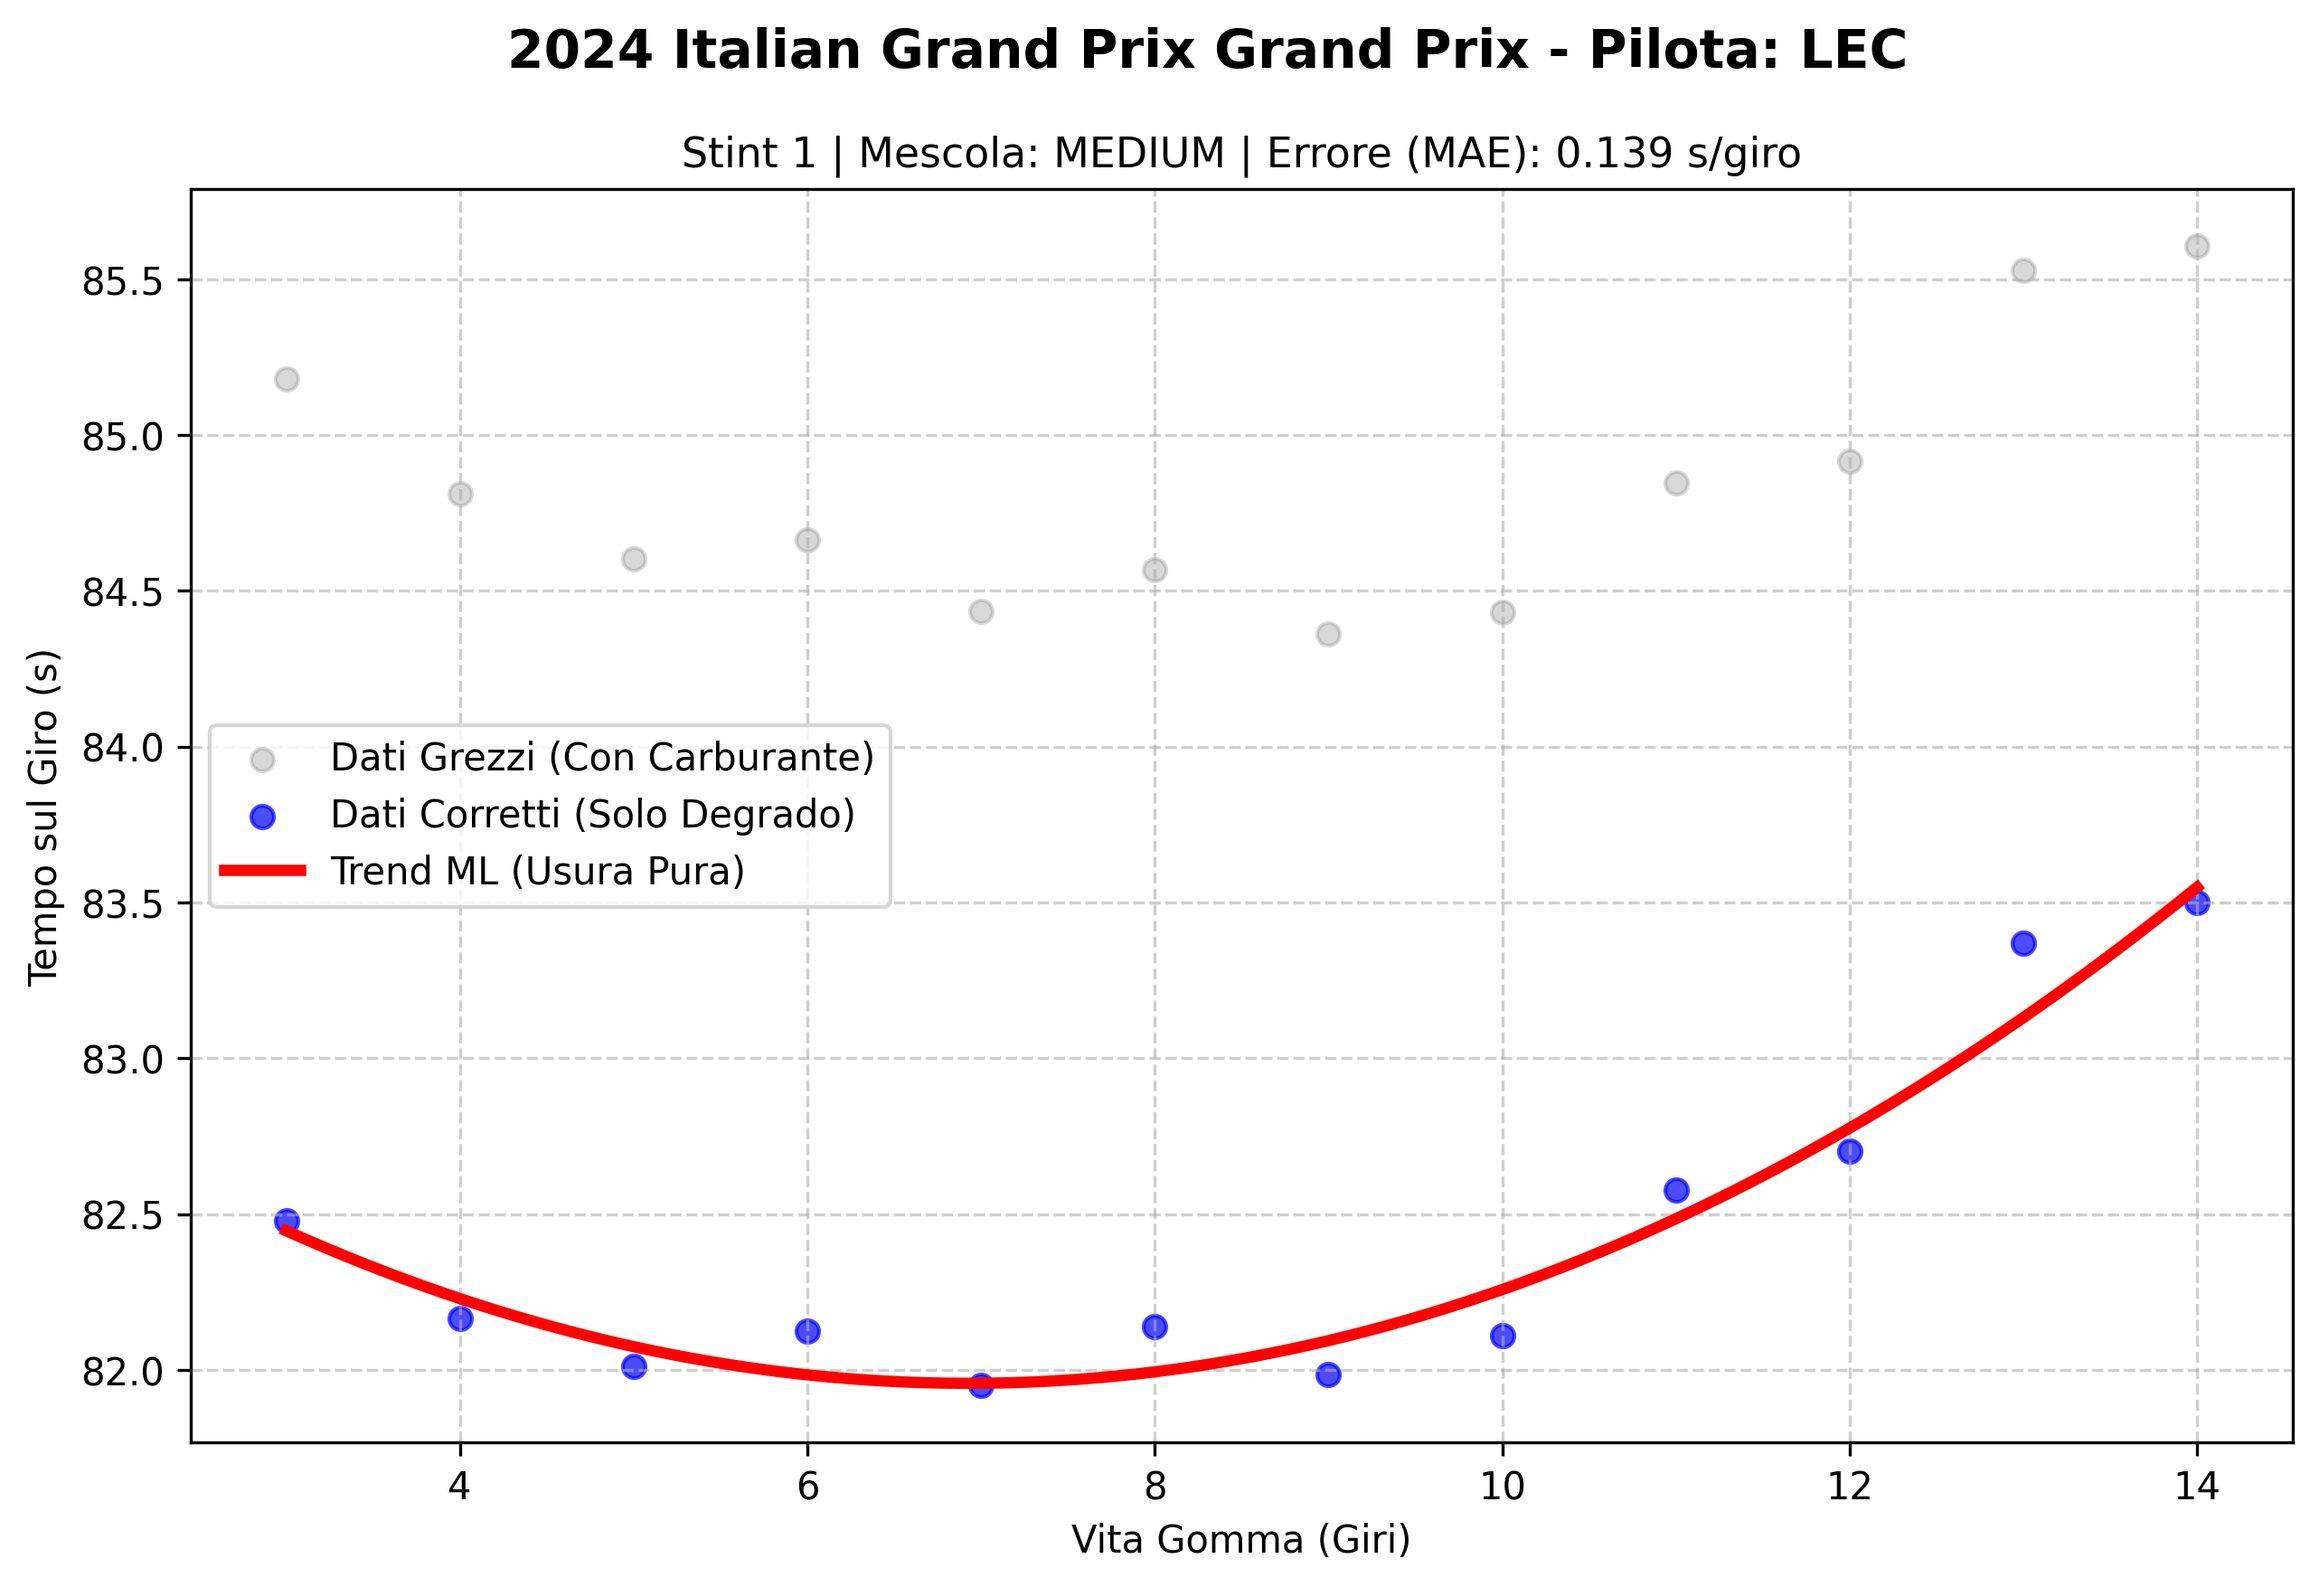
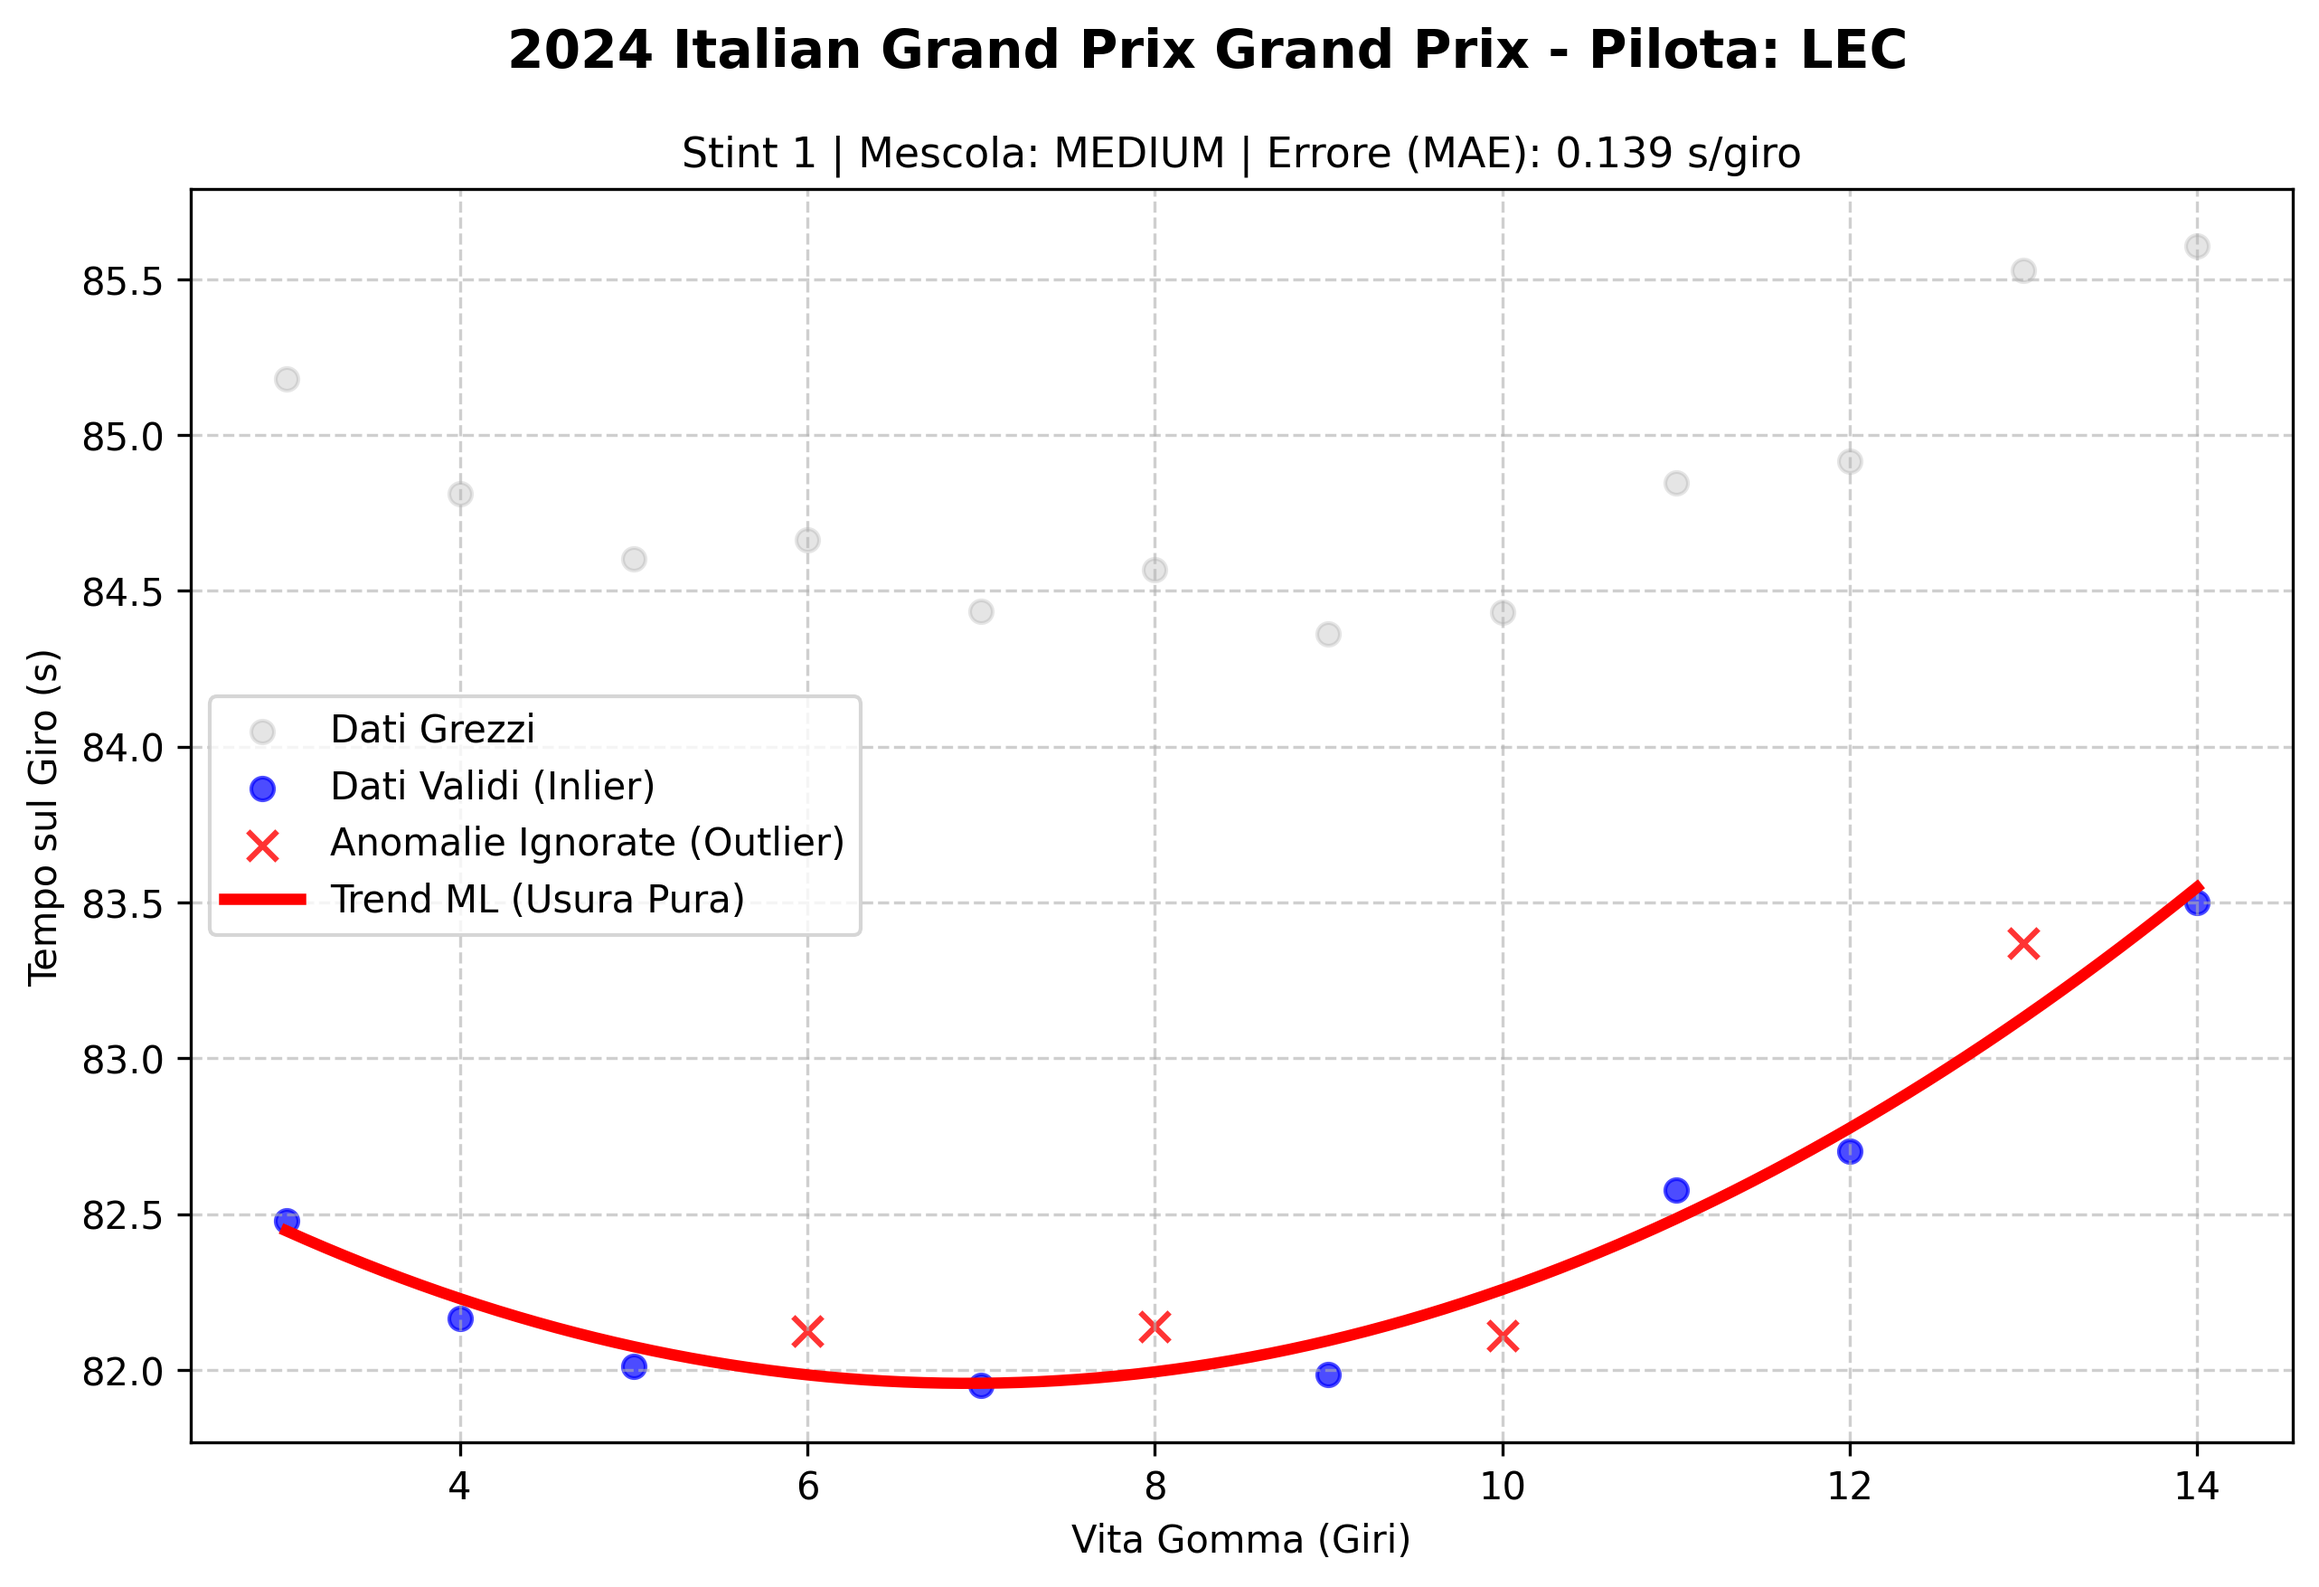
outlier marked in plots

diff --git a/src/plotter.py b/src/plotter.py
@@ -3,14 +3,28 @@ import numpy as np
 import pandas as pd
 import os
 
-def save_plots(df, model, stint, compound, mae, year, gp, driver, folder):
+def save_plots(df, model, stint, compound, mae, year, gp, driver, outlier_mask, folder):
     """
-    Genera e salva i grafici di regressione per singolo stint.
+    Genera e salva i grafici di regressione per singolo stint,
+    evidenziando visivamente i giri classificati come outlier dal modello.
     """
+
     plt.figure(figsize=(10, 6))
 
-    plt.scatter(df["TyreLife"], df["LapTime_Sec"], color="gray", alpha=0.3, label="Dati Grezzi (Con Carburante)")
-    plt.scatter(df["TyreLife"], df["LapTime_FuelCorrected"], color="blue", alpha=0.7, label="Dati Corretti (Solo Degrado)")
+    # Dati Grezzi (sfondo grigio per dare contesto sul peso del carburante)
+    plt.scatter(df["TyreLife"], df["LapTime_Sec"], color="gray", alpha=0.2, label="Dati Grezzi")
+
+    # Dati Puliti: separati tra INLIER (giri buoni) e OUTLIER (giri ignorati)
+    inlier_mask = ~outlier_mask
+
+    plt.scatter(
+        df["TyreLife"][inlier_mask], df["LapTime_FuelCorrected"][inlier_mask], 
+        color="blue", alpha=0.7, label="Dati Validi (Inlier)"
+    )
+    plt.scatter(
+        df["TyreLife"][outlier_mask], df["LapTime_FuelCorrected"][outlier_mask], 
+        color="red", marker="x", s=60, alpha=0.8, label="Anomalie Ignorate (Outlier)"
+    )
 
     # Generazione curva ideale
     x_smooth = np.linspace(df["TyreLife"].min(), df["TyreLife"].max(), 100)
@@ -36,7 +50,7 @@ def plot_summary_bar_chart(df_results, output_folder):
     """
     Genera un istogramma comparativo dei tassi di degrado estratti.
     """
-
+    
     if df_results.empty:
         return
 
@@ -46,7 +60,7 @@ def plot_summary_bar_chart(df_results, output_folder):
     gp = df_results["GP"].iloc[0]
     driver = df_results["Driver"].iloc[0]
     
-    # Mappa colori per le mescole normalemente usate in F1
+    # Mappa colori per le mescole normalmente usate in F1
     colors = {"SOFT": "red", "MEDIUM": "yellow", "HARD": "white", "INTERMEDIATE": "green", "WET": "blue"}
     
     x_labels = [f"Stint {int(row['Stint'])}\n({row['Compound']})" for _, row in df_results.iterrows()]

diff --git a/src/main.py b/src/main.py
@@ -37,9 +37,14 @@ def main():
         print(f"Stint {stint} | compound {compound} | laps {len(stint_df)}")
 
         try:
-            model, mae, deg_rate, _, df_pred = train_degradation_model(stint_df)
+            # Training del modello robusto con gestione degli outlier
+            model, mae, deg_rate, _, df_pred, outlier_mask = train_degradation_model(stint_df)
             
-            save_plots(df_pred, model, stint, compound, mae, args.year, args.gp, args.driver, output_folder)
+            # Salvataggio dei grafici passando la maschera degli outlier
+            save_plots(
+                df_pred, model, stint, compound, 
+                mae, args.year, args.gp, args.driver, outlier_mask, output_folder
+            )
             
             results = collect_result(results, args.year, args.gp, args.driver, stint, compound, deg_rate, mae)
 

diff --git a/src/modelTraining.py b/src/modelTraining.py
@@ -38,4 +38,7 @@ def train_degradation_model(df):
     avg_life = df["TyreLife"].mean()
     deg_rate = tyre_coef + 2 * tyre2_coef * avg_life
 
-    return model, mae_mean, deg_rate, FUEL_EFFECT_SEC_PER_KG, df
+    # Estraiamo la maschera degli outlier identificati dalla Huber Loss
+    outlier_mask = model.outliers_
+
+    return model, mae_mean, deg_rate, FUEL_EFFECT_SEC_PER_KG, df, outlier_mask
